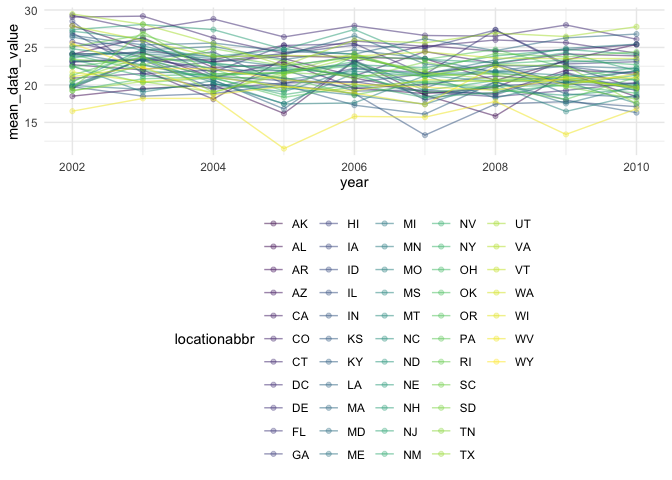
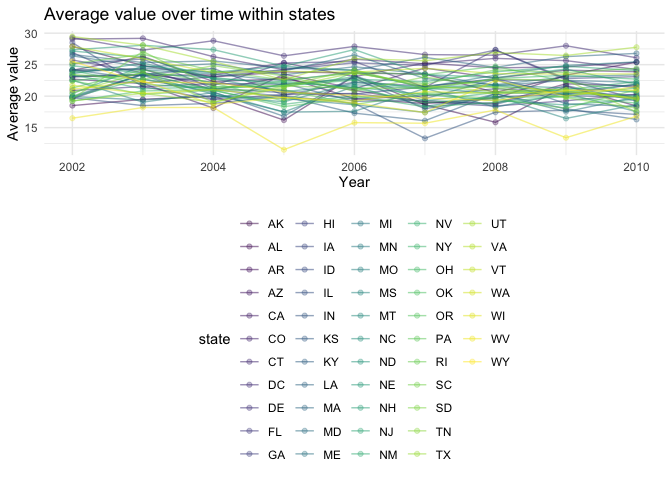
added some descriptions

diff --git a/p8105_hw3_az2587.md b/p8105_hw3_az2587.md
@@ -82,7 +82,12 @@ There are **1384617** observations and **15** variables in the instacart
 dataset. The variables are order\_id, product\_id, add\_to\_cart\_order,
 reordered, user\_id, eval\_set, order\_number, order\_dow,
 order\_hour\_of\_day, days\_since\_prior\_order, product\_name,
-aisle\_id, department\_id, aisle, department.
+aisle\_id, department\_id, aisle, department. There are **21**
+departments(including alcohol, bakery, beverages etc.). Among all
+variables, order\_id, product\_id, add\_to\_cart\_order, reordered,
+user\_id, order\_number, order\_dow, order\_hour\_of\_day,
+days\_since\_prior\_order, aisle\_id, department\_id are integers while
+the others are characters.
 
 Below are some specific questions related to the dataset：\\ How many
 aisles are there, and which aisles are the most items ordered from?
@@ -106,7 +111,7 @@ aisle_best
     ## 1       83    150609          1
 
 There are in total **134** aisles. The id of the aisle where most items
-are ordered from is **83**. \\
+are ordered from is **83**.  
 
 Make a plot that shows the number of items ordered in each aisle,
 limiting this to aisles with more than 10000 items ordered. Arrange
@@ -117,25 +122,26 @@ instacart %>%
   group_by(aisle, department) %>% 
   summarize(n_ordered = n()) %>% 
   filter(n_ordered > 10000) %>% 
-  #mutate(aisle = factor(aisle),
-  #       aisle = fct_reorder(aisle, n_ordered)) %>% 
   ggplot(aes(x = reorder(aisle,n_ordered), y = n_ordered, fill = department)) + geom_col() + 
   labs(
     title = "number of orders in each aisle",
     x = "aisles",
     y = "number of orders"
   ) + 
-  theme_minimal() +
   theme(axis.text.y = element_text(hjust = 1), 
         axis.text = element_text(size = 6),
-        legend.position = "bottom",
         legend.text = element_text(size = 6)) + 
   coord_flip()
 ```
 
     ## `summarise()` has grouped output by 'aisle'. You can override using the `.groups` argument.
 
-![](p8105_hw3_az2587_files/figure-gfm/unnamed-chunk-4-1.png)<!-- -->
+![](p8105_hw3_az2587_files/figure-gfm/unnamed-chunk-4-1.png)<!-- --> The
+x axis of the plot denotes the number of orders while the y axis denotes
+the corresponding aisle. Colors of the bars differ in department. We can
+see that fresh vegetables are ordered the most frequently and butter is
+ordered the least of times. The quantity of orders of fresh products and
+dairy eggs are more than other kinds of products.
 
 Make a table showing the three most popular items in each of the aisles
 “baking ingredients”, “dog food care”, and “packaged vegetables
@@ -167,26 +173,30 @@ table for human readers (i.e. produce a 2 x 7 table).
 
 ``` r
 instacart %>% 
-  filter(product_name == c("Pink Lady Apples", "Coffee Ice Cream")) %>% 
+  filter(product_name %in% c("Pink Lady Apples", "Coffee Ice Cream")) %>% 
   group_by(product_name, order_dow) %>% 
   summarize(mean_hour = round(mean(order_hour_of_day), digits = 2)) %>% 
   pivot_wider(names_from = order_dow, values_from = mean_hour) %>% 
+  rename("Sun" = `0`, 
+         "Mon" = `1`,
+         "Tue" = `2`,
+         "Wed" = `3`,
+         "Thu" = `4`,
+         "Fri" = `5`,
+         "Sat" = `6`) %>% 
   knitr::kable()
 ```
 
-    ## Warning in product_name == c("Pink Lady Apples", "Coffee Ice Cream"): longer
-    ## object length is not a multiple of shorter object length
-
     ## `summarise()` has grouped output by 'product_name'. You can override using the `.groups` argument.
 
-| product\_name    |     0 |     1 |     2 |     3 |     4 |     5 |     6 |
+| product\_name    |   Sun |   Mon |   Tue |   Wed |   Thu |   Fri |   Sat |
 | :--------------- | ----: | ----: | ----: | ----: | ----: | ----: | ----: |
-| Coffee Ice Cream | 13.22 | 15.00 | 15.33 | 15.40 | 15.17 | 10.33 | 12.35 |
-| Pink Lady Apples | 12.25 | 11.68 | 12.00 | 13.94 | 11.91 | 13.87 | 11.56 |
+| Coffee Ice Cream | 13.77 | 14.32 | 15.38 | 15.32 | 15.22 | 12.26 | 13.83 |
+| Pink Lady Apples | 13.44 | 11.36 | 11.70 | 14.25 | 11.55 | 12.78 | 11.94 |
 
 ## Problem 2
 
-Data preparation
+Data preparation:
 
 ``` r
 data("brfss_smart2010")
@@ -196,8 +206,32 @@ brfss = brfss_smart2010 %>%
   mutate(
     response_rank = recode(response, `Poor` = 0, `Fair` = 1, `Good` = 2, `Very good` = 3,
                            `Excellent` = 4),
-    response = fct_reorder(response, response_rank))
+    response = fct_reorder(response, response_rank)) %>% 
+  rename(state = locationabbr,
+         location_description = locationdesc)
+
+brfss
 ```
+
+    ## # A tibble: 10,625 x 24
+    ##     year state location_descrip… class   topic  question    response sample_size
+    ##    <int> <chr> <chr>             <chr>   <chr>  <chr>       <fct>          <int>
+    ##  1  2010 AL    AL - Jefferson C… Health… Overa… How is you… Excelle…          94
+    ##  2  2010 AL    AL - Jefferson C… Health… Overa… How is you… Very go…         148
+    ##  3  2010 AL    AL - Jefferson C… Health… Overa… How is you… Good             208
+    ##  4  2010 AL    AL - Jefferson C… Health… Overa… How is you… Fair             107
+    ##  5  2010 AL    AL - Jefferson C… Health… Overa… How is you… Poor              45
+    ##  6  2010 AL    AL - Mobile Coun… Health… Overa… How is you… Excelle…          91
+    ##  7  2010 AL    AL - Mobile Coun… Health… Overa… How is you… Very go…         177
+    ##  8  2010 AL    AL - Mobile Coun… Health… Overa… How is you… Good             224
+    ##  9  2010 AL    AL - Mobile Coun… Health… Overa… How is you… Fair             120
+    ## 10  2010 AL    AL - Mobile Coun… Health… Overa… How is you… Poor              66
+    ## # … with 10,615 more rows, and 16 more variables: data_value <dbl>,
+    ## #   confidence_limit_low <dbl>, confidence_limit_high <dbl>,
+    ## #   display_order <int>, data_value_unit <chr>, data_value_type <chr>,
+    ## #   data_value_footnote_symbol <chr>, data_value_footnote <chr>,
+    ## #   data_source <chr>, class_id <chr>, topic_id <chr>, location_id <chr>,
+    ## #   question_id <chr>, respid <chr>, geo_location <chr>, response_rank <dbl>
 
 In 2002, which states were observed at 7 or more locations? What about
 in 2010?
@@ -205,8 +239,8 @@ in 2010?
 ``` r
 states_2002 = brfss %>% 
   filter(year == 2002) %>% 
-  group_by(locationabbr) %>% 
-  distinct(locationdesc) %>% 
+  group_by(state) %>% 
+  distinct(location_description) %>% 
   summarize(n_location_obs = n()) %>% 
   filter(n_location_obs >= 7)
 
@@ -214,14 +248,14 @@ states_2002
 ```
 
     ## # A tibble: 6 x 2
-    ##   locationabbr n_location_obs
-    ##   <chr>                 <int>
-    ## 1 CT                        7
-    ## 2 FL                        7
-    ## 3 MA                        8
-    ## 4 NC                        7
-    ## 5 NJ                        8
-    ## 6 PA                       10
+    ##   state n_location_obs
+    ##   <chr>          <int>
+    ## 1 CT                 7
+    ## 2 FL                 7
+    ## 3 MA                 8
+    ## 4 NC                 7
+    ## 5 NJ                 8
+    ## 6 PA                10
 
 The states that were observed at 7 or more locations are CT, FL, MA, NC,
 NJ, PA.
@@ -229,8 +263,8 @@ NJ, PA.
 ``` r
 states_2010 = brfss %>% 
   filter(year == 2010) %>% 
-  group_by(locationabbr) %>% 
-  distinct(locationdesc) %>% 
+  group_by(state) %>% 
+  distinct(location_description) %>% 
   summarize(n_location_obs = n()) %>% 
   filter(n_location_obs >= 7)
 
@@ -238,22 +272,22 @@ states_2010
 ```
 
     ## # A tibble: 14 x 2
-    ##    locationabbr n_location_obs
-    ##    <chr>                 <int>
-    ##  1 CA                       12
-    ##  2 CO                        7
-    ##  3 FL                       41
-    ##  4 MA                        9
-    ##  5 MD                       12
-    ##  6 NC                       12
-    ##  7 NE                       10
-    ##  8 NJ                       19
-    ##  9 NY                        9
-    ## 10 OH                        8
-    ## 11 PA                        7
-    ## 12 SC                        7
-    ## 13 TX                       16
-    ## 14 WA                       10
+    ##    state n_location_obs
+    ##    <chr>          <int>
+    ##  1 CA                12
+    ##  2 CO                 7
+    ##  3 FL                41
+    ##  4 MA                 9
+    ##  5 MD                12
+    ##  6 NC                12
+    ##  7 NE                10
+    ##  8 NJ                19
+    ##  9 NY                 9
+    ## 10 OH                 8
+    ## 11 PA                 7
+    ## 12 SC                 7
+    ## 13 TX                16
+    ## 14 WA                10
 
 The states that were observed at 7 or more locations are CA, CO, FL, MA,
 MD, NC, NE, NJ, NY, OH, PA, SC, TX, WA.
@@ -265,42 +299,47 @@ across locations within a state.
 ``` r
 excellent_df = brfss %>% 
   filter(response == "Excellent") %>% 
-  group_by(locationabbr, year) %>% 
+  group_by(state, year) %>% 
   summarize(mean_data_value = mean(data_value, na.rm = TRUE))
 ```
 
-    ## `summarise()` has grouped output by 'locationabbr'. You can override using the `.groups` argument.
+    ## `summarise()` has grouped output by 'state'. You can override using the `.groups` argument.
 
 ``` r
 excellent_df
 ```
 
     ## # A tibble: 443 x 3
-    ## # Groups:   locationabbr [51]
-    ##    locationabbr  year mean_data_value
-    ##    <chr>        <int>           <dbl>
-    ##  1 AK            2002            27.9
-    ##  2 AK            2003            24.8
-    ##  3 AK            2004            23.0
-    ##  4 AK            2005            23.8
-    ##  5 AK            2007            23.5
-    ##  6 AK            2008            20.6
-    ##  7 AK            2009            23.2
-    ##  8 AL            2002            18.5
-    ##  9 AL            2003            19.5
-    ## 10 AL            2004            20  
+    ## # Groups:   state [51]
+    ##    state  year mean_data_value
+    ##    <chr> <int>           <dbl>
+    ##  1 AK     2002            27.9
+    ##  2 AK     2003            24.8
+    ##  3 AK     2004            23.0
+    ##  4 AK     2005            23.8
+    ##  5 AK     2007            23.5
+    ##  6 AK     2008            20.6
+    ##  7 AK     2009            23.2
+    ##  8 AL     2002            18.5
+    ##  9 AL     2003            19.5
+    ## 10 AL     2004            20  
     ## # … with 433 more rows
 
 Make a “spaghetti” plot of this average value over time within a state.
 
 ``` r
 excellent_df %>% 
-  ggplot(aes(x = year, y = mean_data_value, color = locationabbr)) +
+  ggplot(aes(x = year, y = mean_data_value, color = state)) +
   geom_point(alpha = 0.3) +
-  geom_line(aes(group = locationabbr), alpha = 0.5)
+  geom_line(aes(group = state), alpha = 0.5) +
+  labs(title = "Average value over time within states",
+       x = "Year",
+       y = "Average value")
 ```
 
 ![](p8105_hw3_az2587_files/figure-gfm/unnamed-chunk-11-1.png)<!-- -->
+The plot shows the changes of average values of each state over time.
+The values drop slightly overall.
 
 Make a two-panel plot showing, for the years 2006, and 2010,
 distribution of data\_value for responses (“Poor” to “Excellent”) among
@@ -308,9 +347,9 @@ locations in NY State.
 
 ``` r
 brfss %>% 
-  group_by(year, locationabbr) %>% 
+  group_by(year, state) %>% 
   filter((year == 2006 | year == 2010),
-         locationabbr == "NY")%>% 
+         state == "NY")%>% 
   ggplot(aes(x = response, y = data_value)) +
   geom_boxplot() +
   facet_grid(. ~ year)
